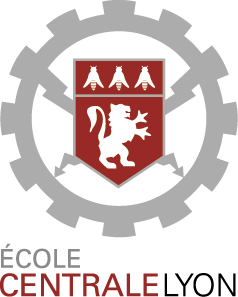
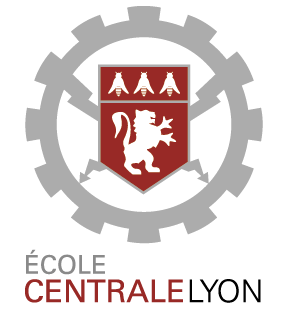
slider school version mobile

diff --git a/_includes/index/whatis.html b/_includes/index/whatis.html
@@ -45,19 +45,19 @@
 			      <li>
 			        <img src="assets/img/defis/defi7.jpg"> <!-- random image -->
 			        <div class="caption left-align">
-			          <h3><br/><br/><br/><br/><br/>Faire du train-stop...</h3>
+			          <h3><br/><br/><br/><br/>Faire du train-stop...</h3>
 			        </div>
 			      </li>
 			      <li>
 			        <img src="assets/img/defis/defi8.jpg"> <!-- random image -->
 			        <div class="caption right-align">
-			          <h3><br/><br/><br/><br/>prendre les commandes...</h3>
+			          <h3><br/><br/><br/>prendre les commandes...</h3>
 			        </div>
 			      </li>
 			      <li>
 			        <img src="assets/img/defis/defi1.jpg"> <!-- random image -->
-			        <div class="caption center-align">
-			          <h3>d'un avion...</h3>
+			        <div class="caption left-align">
+			          <h3><br/><br/><br/><br/>d'un avion...</h3>
 			        </div>
 			      </li>
 			      <li>

diff --git a/index.html b/index.html
@@ -6,8 +6,9 @@ layout: "material"
 	<div id="login">{% include login.html %}</div>
 	<div id="firstscreen">{% include index/firstscreen.html %}</div>
 	<div class="section section_small row center" id="review">{% include index/review.html %}</div>
+	<div class="section section_small row hide-on-large-only" id="school-mobile">{% include index/school-mobile.html %}</div>
 	<div class="section section_small row" id="signup">{% include index/signup.html %}</div>
 	<div class="row center hide-on-med-and-down" id="whatis">{% include index/whatis.html %}</div>
-	<div class="section section_small row" id="schools">{% include index/schools.html %}</div>
+	<div class="section section_small row hide-on-med-and-down" id="schools">{% include index/schools.html %}</div>
 	<!--<div class="section section_small row" id="partenaires">{% include index/partenaires.html %}</div>-->
 </div>

diff --git a/assets/css/index.css b/assets/css/index.css
@@ -146,6 +146,10 @@ footer.page-footer {
   font-size: 100px;
 }
 
+.slider .indicators .indicator-item.active {
+  background-color: #ff6f00;
+}
+
 /* ------------------------- */
 /* --- app.firstscreen.component.css --- */
 /* ------------------------- */
@@ -441,6 +445,19 @@ text-align:center;
 #schools iframe.twitter-timeline{
   width: 90% !important;
   height: 50vh !important;
+}
+
+/* ------------------------- */
+/* --- app.school-mobile.component.css --- */
+/* ------------------------- */
+
+#school-mobile .slider .slides li img {
+    background-size:100% auto;
+    background-repeat: no-repeat;
+}
+
+#school-mobile .slider .slides {
+    background-color: #00000000;
 }
 
 /* ------------------------- */

diff --git a/assets/js/index.js b/assets/js/index.js
@@ -290,5 +290,14 @@ $(document).ready(function(){
 
 $(document).ready(function () {
     // Plugin initialization
-    $('#whatis-right3 .slider').slider({interval:4000});
+    $('#whatis-right3 .slider').slider({interval:4000, height:350});
+})
+
+/*-----------------------------------------------------------------------------------*/
+/*	school-mobile slider
+/*-----------------------------------------------------------------------------------*/
+
+$(document).ready(function () {
+    // Plugin initialization
+    $('#school-mobile .slider').slider({indicators:false, height:280, interval:1000});
 })

diff --git a/_includes/index/school-mobile.html b/_includes/index/school-mobile.html
@@ -1,0 +1,10 @@
+<h4 class="center">Participants</h4>
+<div class="slider">
+	<ul class="slides">
+    {% for schoolName in site.data.ecoles.name %}
+      <li>
+        <img src="/{{ site.data.ecoles.schoolfolder }}/{{ schoolName }}" class="img-responsive">
+      </li>
+  	{% endfor %}
+	</ul>
+</div>
